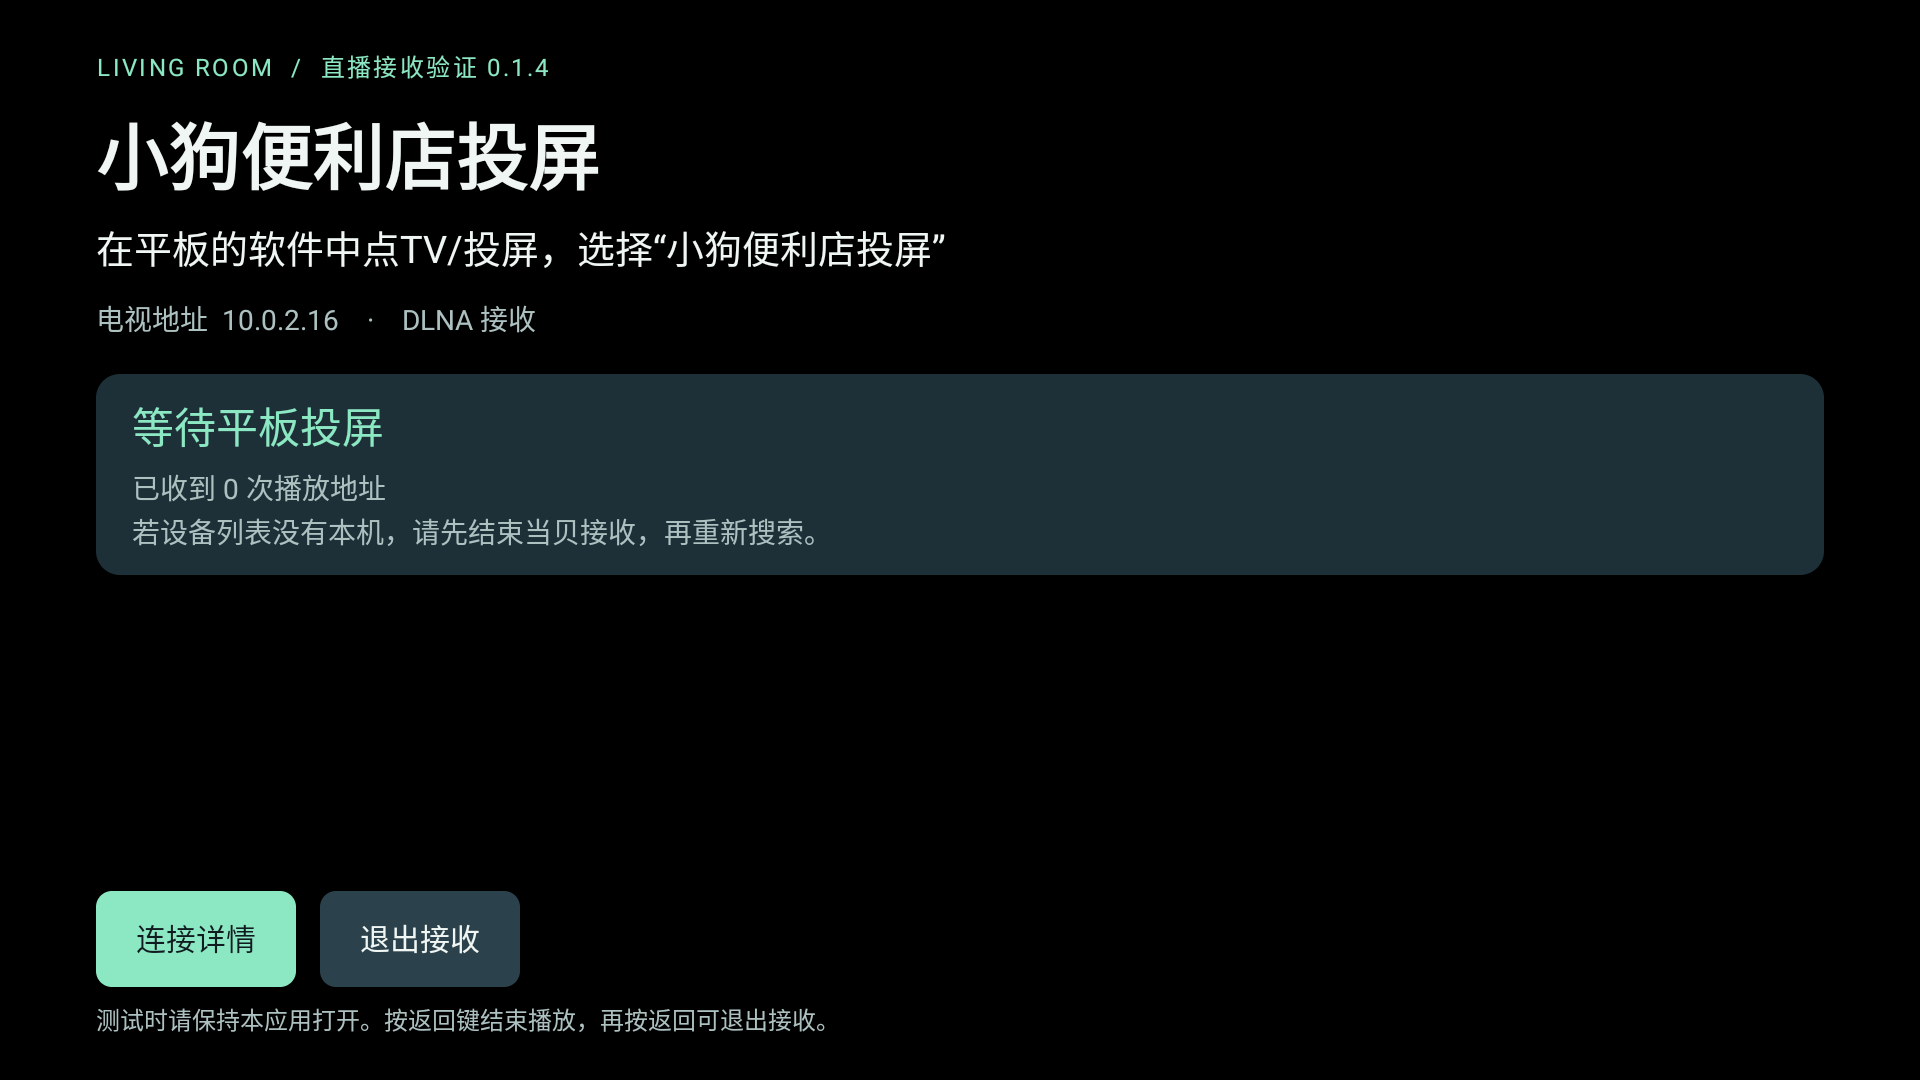
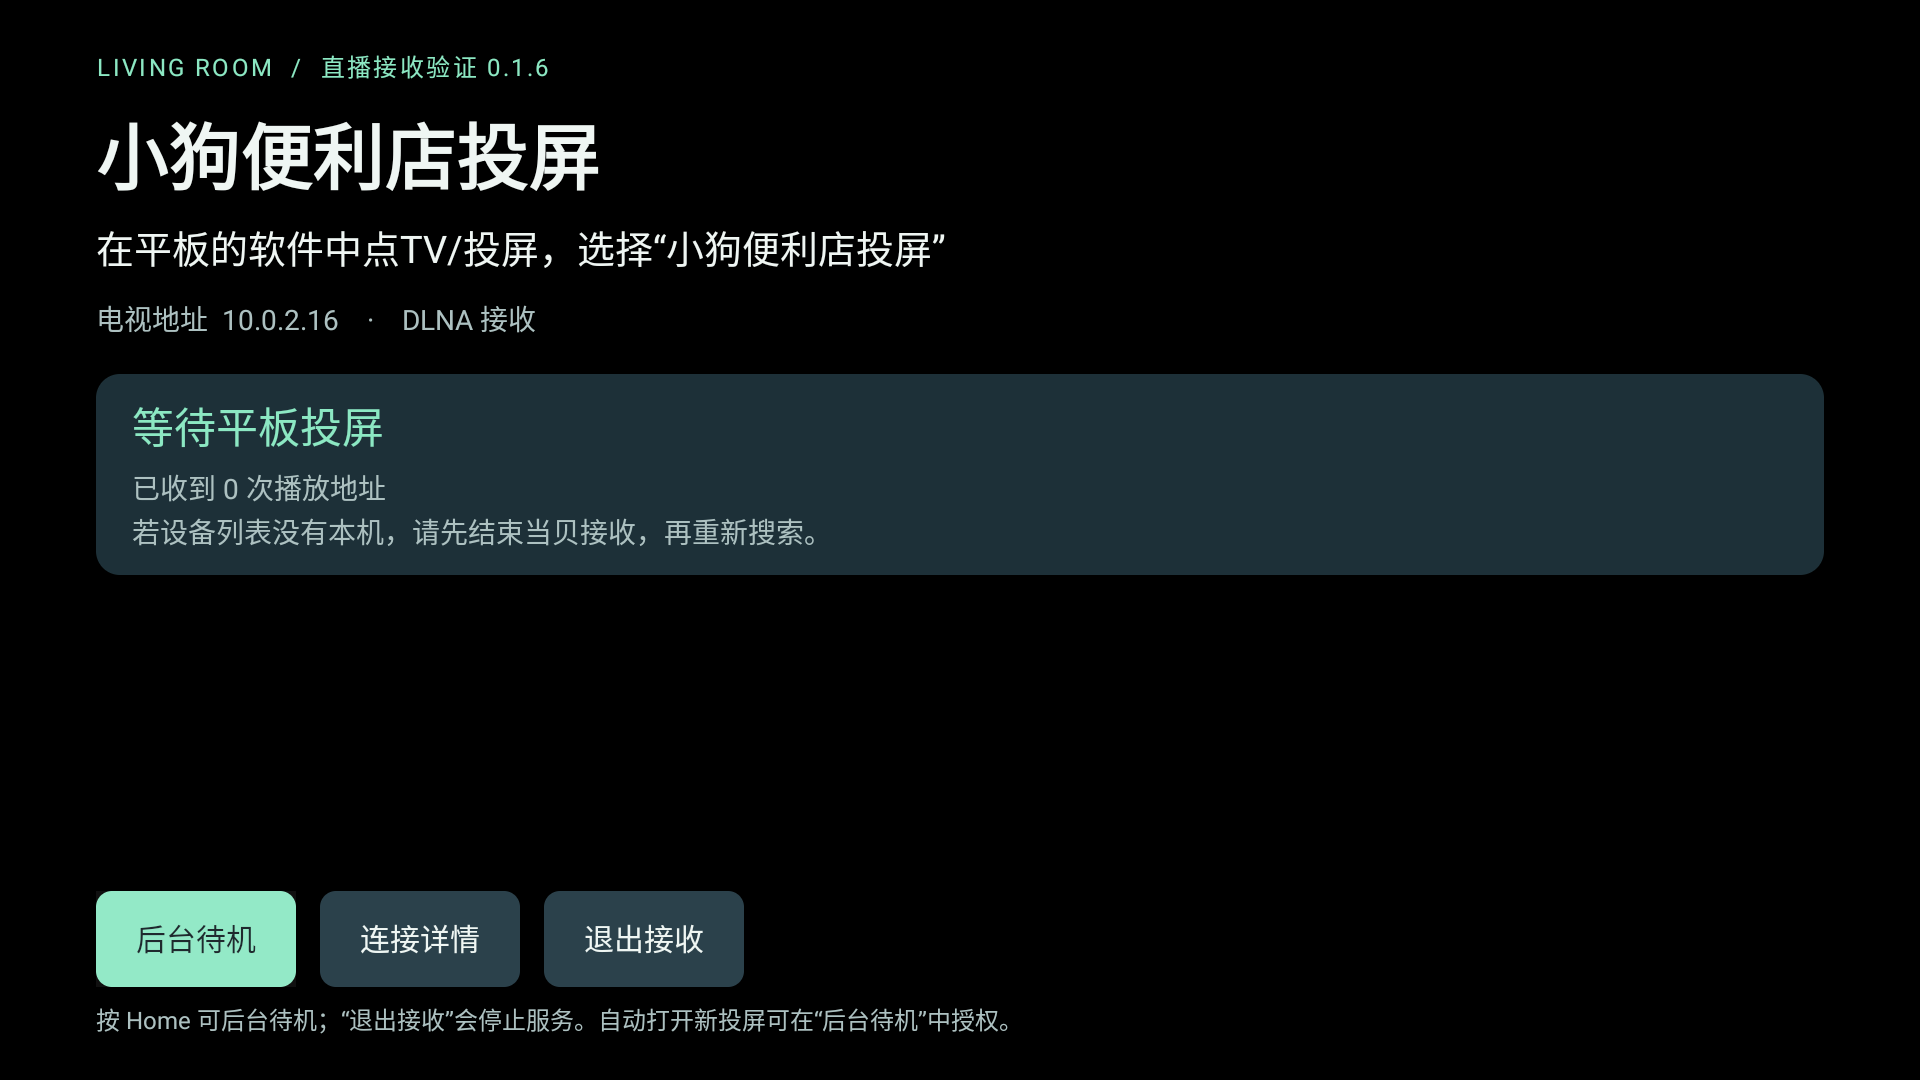
Prepare public 0.1.6-test release

Changed region(s): [[0.0312, 0.825, 0.5312, 0.9778], [0.0625, 0.8556, 0.1562, 0.8861], [0.1875, 0.8556, 0.25, 0.8861]]

diff --git a/README.md b/README.md
@@ -2,7 +2,7 @@
 
 一个用于 Android TV 的轻量 DLNA 视频接收端。打开电视上的应用，在平板视频软件中点 TV / 投屏，选择“小狗便利店投屏”。
 
-最初用于家里的安卓平板向索尼电视投送直播。没有账号、广告、订阅收费或人为播放时长限制。当前开发版本 **0.1.6-test**，仍处于测试阶段。
+最初用于家里的安卓平板向索尼电视投送直播。没有账号、广告、订阅收费或人为播放时长限制。当前公开测试版本 **0.1.6-test**，仍处于测试阶段。
 
 ![等待投屏界面](docs/images/waiting.png)
 
@@ -37,7 +37,7 @@
 
 ## 安装与使用
 
-下载 [0.1.4-test 测试安装包](https://github.com/leiz56638111-create/puppy-store-cast/releases/download/v0.1.4-test/PuppyStoreCast-0.1.4-test.apk)，或查看 [发布说明、源码和校验值](https://github.com/leiz56638111-create/puppy-store-cast/releases/tag/v0.1.4-test)。也可按下节自行编译。
+下载 [0.1.6-test 测试安装包](https://github.com/leiz56638111-create/puppy-store-cast/releases/download/v0.1.6-test/PuppyStoreCast-0.1.6-test.apk)，或查看 [发布说明、源码和校验值](https://github.com/leiz56638111-create/puppy-store-cast/releases/tag/v0.1.6-test)。也可按下节自行编译。
 
 1. 把 APK 拷到 U 盘，通过电视文件管理器打开；按电视提示允许对应应用安装未知来源的软件。
 2. 安装并打开“小狗便利店投屏”，确认电视已联网。
@@ -92,7 +92,7 @@ Windows 路径仅提供操作说明，尚未在 Windows 真机验证。也可使
 
 构建脚本会为缺少密钥的源码副本生成本地调试密钥。示例密码 `android` 是调试配置，不是生产环境凭据。
 
-公开的 0.1.4-test 安装包沿用此前版本的测试签名，与本地交付的 0.1.4-test 是同一文件；可以覆盖同包名、同签名的已有安装。仓库不包含该签名私钥。不同人自行编译的 APK 签名不同，不能直接覆盖彼此的安装；后续签名安排以各版本发布说明为准。
+公开的 0.1.6-test 安装包沿用此前版本的测试签名，与本地交付的 0.1.6-test 是同一文件；可以覆盖同包名、同签名的已有安装。仓库不包含该签名私钥。不同人自行编译的 APK 签名不同，不能直接覆盖彼此的安装；后续签名安排以各版本发布说明为准。
 
 ## 测试与参与
 

diff --git a/CHANGELOG.md b/CHANGELOG.md
@@ -7,7 +7,8 @@
 - 离开视频界面结束当前播放，避免后台隐藏音视频；新投屏可重新唤起。
 - 应用和常驻通知均可明确“退出接收”，停止服务并释放网络、播放器及 Wi-Fi 锁。
 - 不含开机自启；不保证电视关屏、深度休眠、厂商清理或强行停止后仍在线。
-- versionCode 7，包名与原签名延续；本地试用版，尚未推送或发布 GitHub。
+- versionCode 7，包名与原签名延续；作为公开预发布版提供 APK、对应 GPL 源码、许可证与校验值。
+- 包含 0.1.5-test 的播放成功立即隐藏信息层、遥控器操作后约两秒收起及弹窗会话修复；0.1.5 未单独公开发布。
 - 此前真实 App 单档画质问题仍按用户要求暂缓。
 
 ## 0.1.5-test · 2026-10-20

diff --git a/TESTING.md b/TESTING.md
@@ -40,7 +40,7 @@ python3 tests/test_format_probe.py
 
 ## 截图
 
-README 中的等待页为 0.1.3-test 在 1920×1080 安卓模拟器上的实际截图。IP 地址为模拟器地址，不是真实家庭设备地址。
+README 中的等待页已更新为 0.1.6-test 在 1920×1080 安卓模拟器上的实际截图。IP 地址为模拟器地址，不是真实家庭设备地址。
 
 ## 0.1.4-test 画质控制 · 2026-10-20
 
